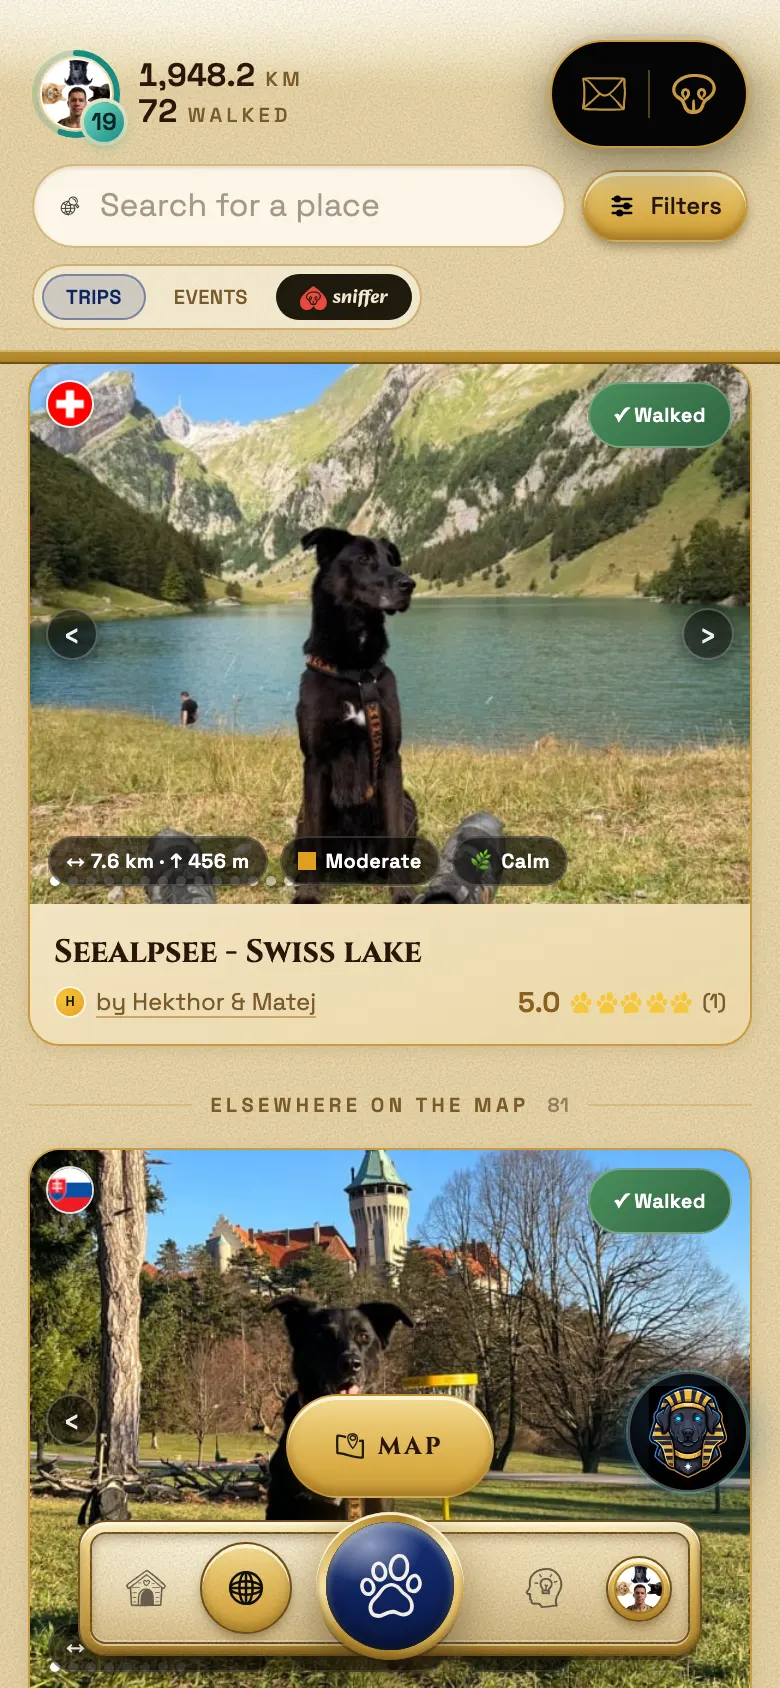
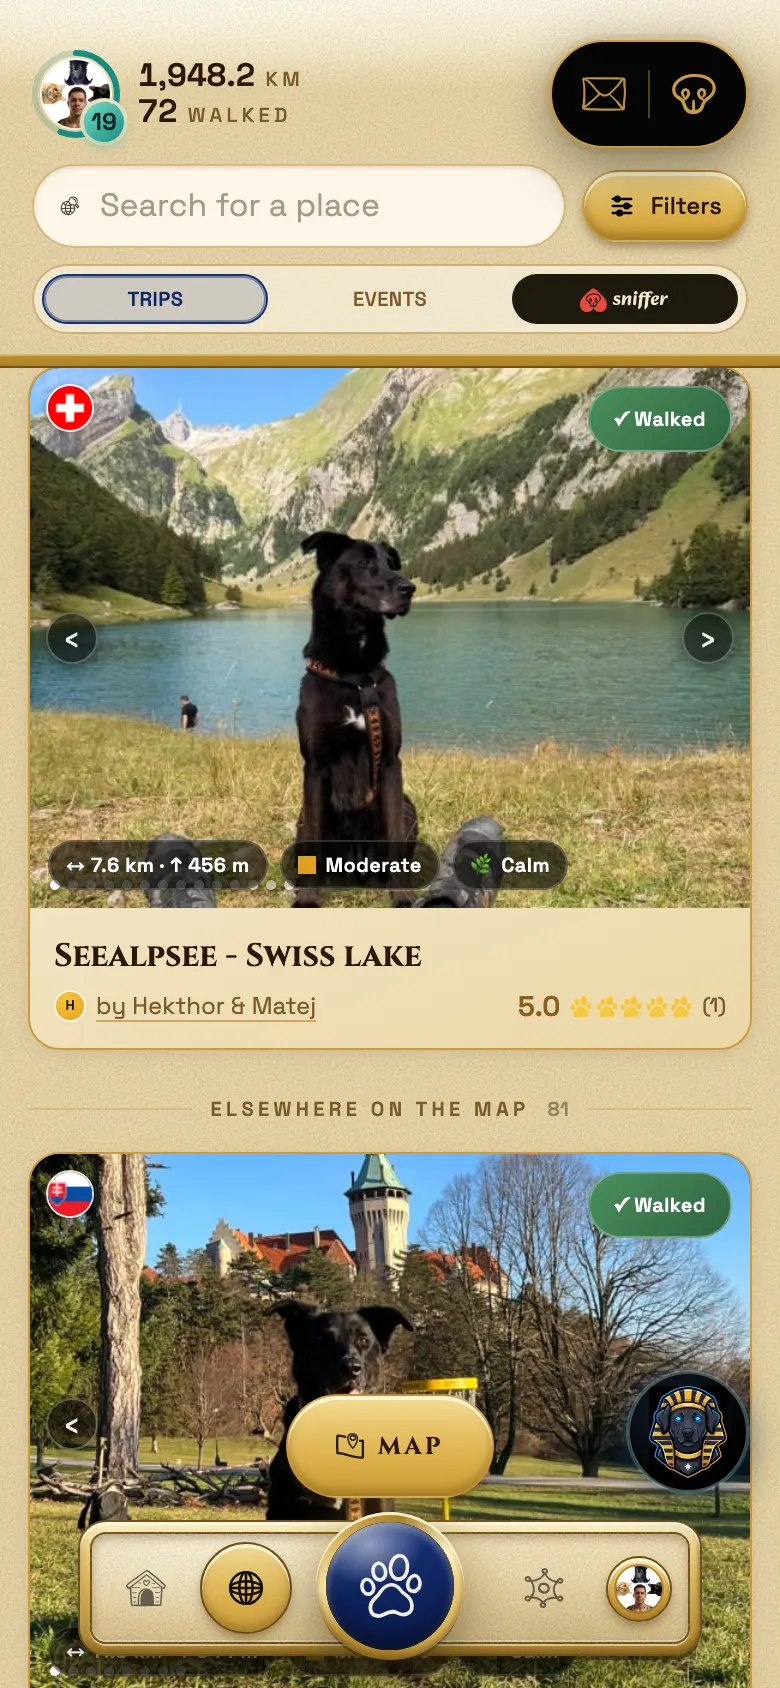
Spodný nav: AINUBIS = šesťcípa hviezda (star-six.svg z hand-drawn kitu); snímky členstva s novou ikonkou

Changed region(s): [[0.0, 0.154, 1.0, 1.0], [0.4308, 0.8626, 0.4615, 0.8934]]

diff --git a/src/components/pack/PackLayout.tsx b/src/components/pack/PackLayout.tsx
@@ -1143,9 +1143,12 @@ function BrandIcon({ src, active }: { src: string; active: boolean }) {
  *    nesie vo VAULTE svet POCHOPENIE (`vault/worlds.ts`) — zámerne jedna značka pre
  *    „miesto, kde sa učím". Predtým tu bola návrhom `dogsphinx.svg`, ktorú si ďalej drží
  *    svet CESTA PSA.
+ * 🔁 ZMENENÉ 5. 10. 2026 — `star-six.svg` (šesťcípa hviezda z hand-drawn kitu, „Star of six
+ *    points"). Matej: *„ešte by som rád zmenil ikonku ainubisa dolu v nave, daj star of six
+ *    points"*. `idea.svg` ostáva svetu POCHOPENIE vo VAULTE.
  */
 function AinubisNavLink({ label }: { label: string }) {
-  return <FloatingNavLink to="/pack/ainubis" label={label} icon="/icons/pack/idea.svg" />;
+  return <FloatingNavLink to="/pack/ainubis" label={label} icon="/icons/pack/star-six.svg" />;
 }
 
 function FloatingNavLink({ to, label, icon, end }: { to: string; label: string; icon: string; end?: boolean }) {
